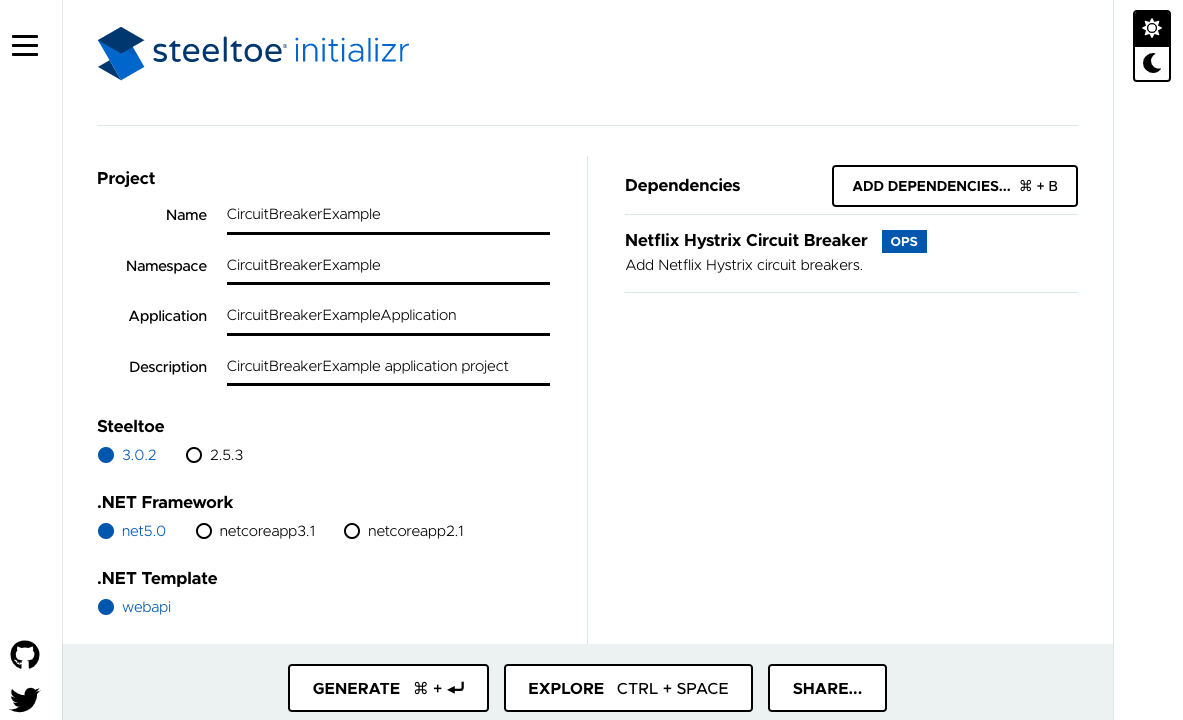
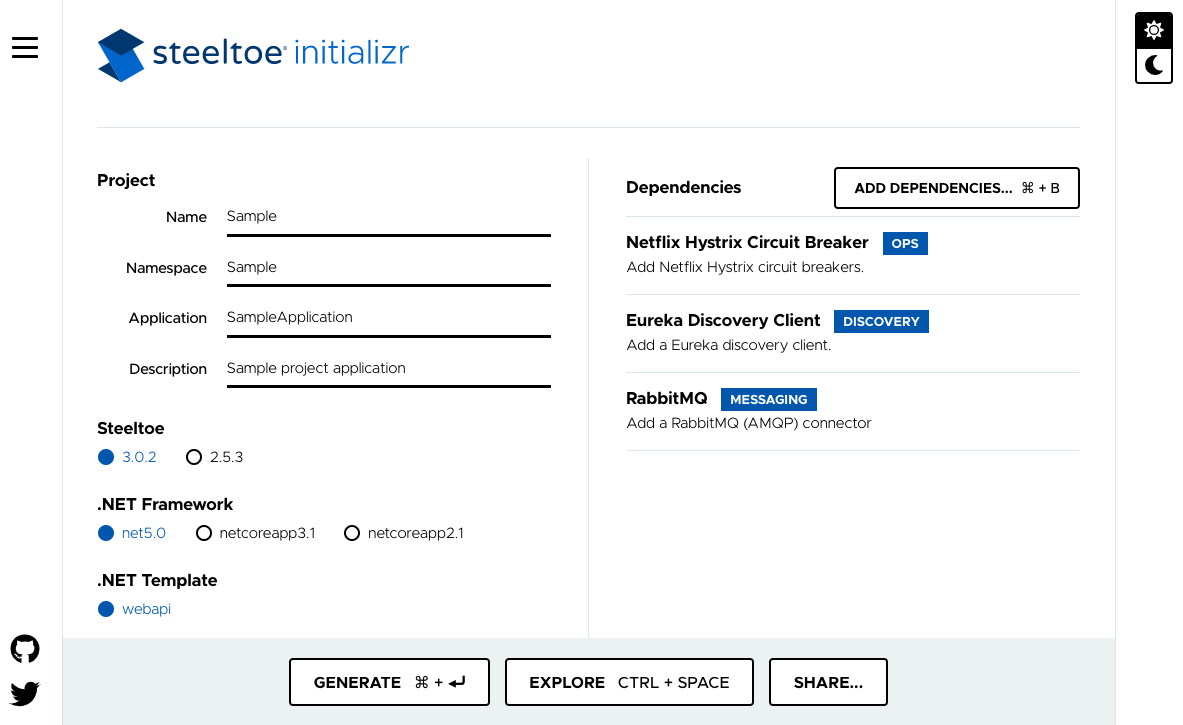
Add Circuit Breaker Configuration/Dependencies (#130)

diff --git a/guides/circuit-breaker/circuit-breaker.md b/guides/circuit-breaker/circuit-breaker.md
@@ -21,44 +21,102 @@ First, **start a instance of the Hystrix dashboard**. Depending on your hosting 
    docker run --publish 7979:7979 steeltoeoss/hystrix-dashboard
    ```
 
-1. Confirm the service is running by viewing the dashboard - [https://localhost:7979/hystrix](https://localhost:7979/hystrix)
+1. Using the [Steeltoe dockerfile](https://github.com/steeltoeoss/dockerfiles), start a local instance of Eureka Discovery Client
+
+   ```powershell
+   docker run --publish 8761:8761 steeltoeoss/eureka-server
+   ```
+
+1. Using the [Steeltoe dockerfile](https://github.com/steeltoeoss/dockerfiles), start a local instance of RabbitMQ
+
+   ```powershell
+   docker run --publish 5672:5672 --publish 15672:15672 rabbitmq:3-management
+   ```
+
+1. Confirm the service is running by viewing the dashboard - [http://localhost:7979/hystrix](http://localhost:7979/hystrix)
 
 **Create a .NET Core WebAPI** that implements the circuit breaker pattern
 
-1. Create a new ASP.NET Core WebAPI app with the [Steeltoe Initializr](https://start.steeltoe.io)
-   <img src="~/guides/images/initializr/circuit-breaker-dependency.png" alt="Steeltoe Initialzr - Circuit Breaker" width="100%">
-1. Name the project "CircuitBreakerExample"
-1. Add the "Netflix Hystrix Circuit Breaker" dependency
-1. Click **Generate Project** to download a zip containing the new project
-1. Extract the zipped project and open in your IDE of choice
-1. Set the instance address and name in **appsettings.json**
+1.  Create a new ASP.NET Core WebAPI app with the [Steeltoe Initializr](https://start.steeltoe.io)
+    <img src="~/guides/images/initializr/circuit-breaker-dependency.png" alt="Steeltoe Initialzr - Circuit Breaker" width="100%">
+1.  Name the project "CircuitBreakerExample"
+1.  Add the "Netflix Hystrix Circuit Breaker" dependency
+1.  Add the "Eureka Discovery Client" dependency
+1.  Add the "RabbitMQ" dependency
+1.  Click **Generate Project** to download a zip containing the new project
+1.  Extract the zipped project and open in your IDE of choice
+1.  Set the instance address and name in **appsettings.json**
 
-   ```json
-   {
-     "spring": {
-       "application": {
-         "name": "CircuitBreakerExample"
-       }
-     }
-   }
-   ```
+    ```json
+    {
+      "Spring": {
+        "Application": {
+          "Name": "mycircuitbreaker"
+        }
+      },
+      "Eureka": {
+        "Client": {
+          "ServiceUrl": "http://localhost:8761/eureka/",
+          "ShouldRegisterWithEureka": true,
+          "ValidateCertificates": false
+        }
+      },
+      "Hystrix": {
+        "command": {
+          "MyCircuitBreaker": {
+            "threadPoolKeyOverride": "MyCircuitBreakerTPool"
+          }
+        }
+      }
+    }
+    ```
+
+1.  Set the local environment variables in **launchsettings.json** (Properties folder)
+
+    ```json
+    {
+      "CircuitBreakerExample": {
+        "commandName": "Project",
+        "launchBrowser": true,
+        "launchUrl": "api/values",
+        "applicationUrl": "http://localhost:5555",
+        "environmentVariables": {
+          "ASPNETCORE_ENVIRONMENT": "Development",
+          "BUILD": "LOCAL",
+          "PORT": 5555
+        }
+      }
+    }
+    ```
+
+1.  Replace default "GET" controller method in **ValuesController.cs** (Controllers folder) with the below:
+
+    ```csharp
+    [HttpGet]
+    public async Task<ActionResult<string>> GetAsync()
+    {
+        MyCircuitBreakerCommand cb = new MyCircuitBreakerCommand("ThisIsMyBreaker");
+        cb.IsFallbackUserDefined = true;
+        return await cb.ExecuteAsync();
+    }
+    ```
 
 **Run** the application
 
 # [.NET cli](#tab/cli)
 
 ```powershell
-dotnet run<PATH_TO>\CircuitBreakerExample.csproj
+dotnet run <PATH_TO>\CircuitBreakerExample.csproj
 ```
 
-Navigate to the endpoint (you may need to change the port number) [http://localhost:5000/api/values](http://localhost:5000/api/values)
+Navigate to the endpoint [http://localhost:5555/api/values](http://localhost:5555/api/values)
 
 # [Visual Studio](#tab/vs)
 
 1. Choose the top _Debug_ menu, then choose _Start Debugging (F5)_. This should bring up a browser with the app running
-1. Navigate to the endpoint (you may need to change the port number) [http://localhost:8080/api/values](http://localhost:8080/api/values)
+1. Navigate to the endpoint [http://localhost:5555/api/values](http://localhost:5555/api/values)
 
 ---
 
 Refresh the application in your browser a few times and go back to the dashboard to see it logging live activity.
-![Circuit Breaker](~/guides/images/circuit-breaker-closed.png)
+<img src="~/guides/images/circuit-breaker-closed.png" alt="Circuit Breaker Dashboard" width="100%">
